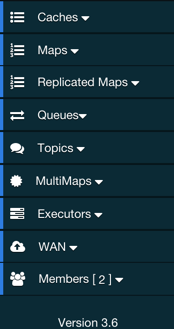
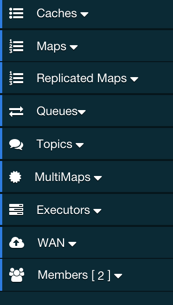
Removed version information from the Mgmt Center images.

diff --git a/src/ManagementCenter.md b/src/ManagementCenter.md
@@ -102,7 +102,7 @@ Management Center creates a folder with the name `mancenter` under your `user/ho
 
 Once the page is loaded after selecting a cluster, the tool's home page appears as shown below.
 
-![Management Center Home Page](images/ManagementCenterHomePage.jpg)
+![Management Center Home Page](images/ManagementCenterHomePage.png)
 
 This page provides the fundamental properties of the selected cluster which are explained in the [Home Page](#management-center-home-page) section. The page has a toolbar on the top and a menu on the left.
 
